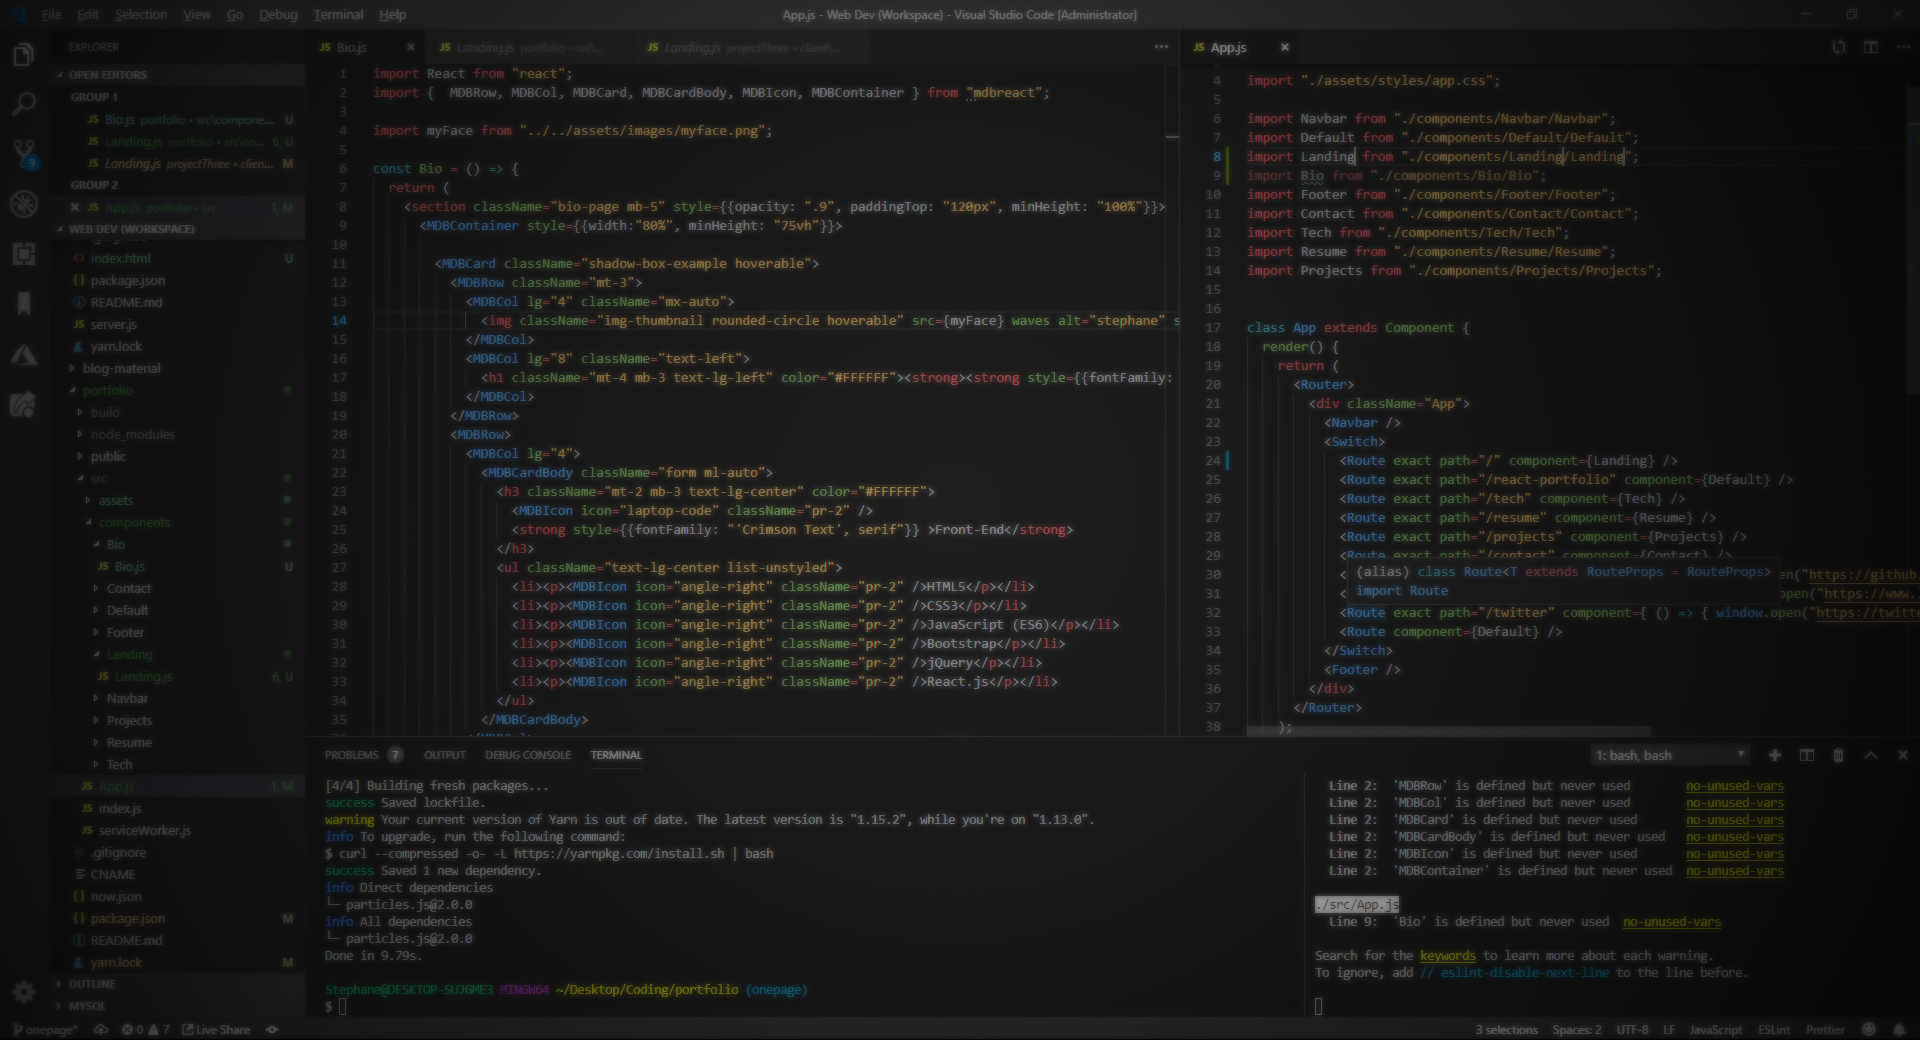
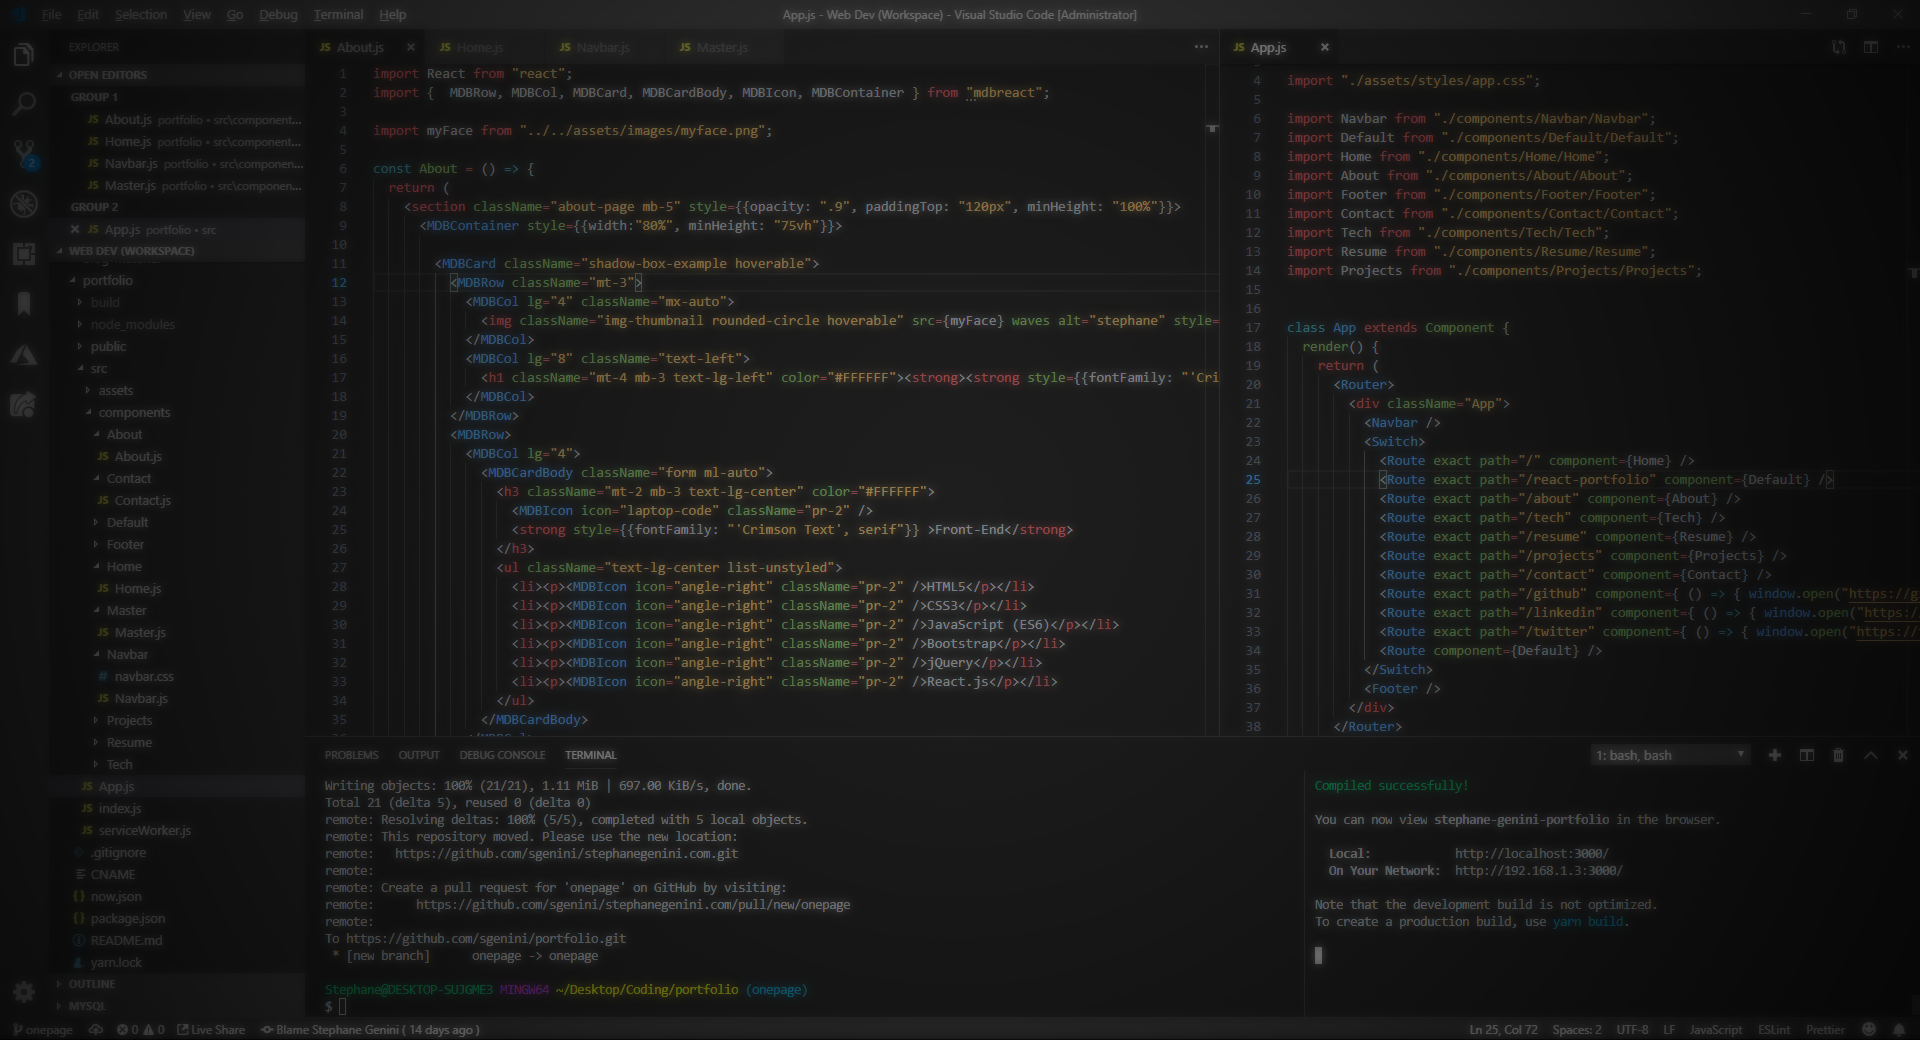
commit

diff --git a/src/App.js b/src/App.js
@@ -12,6 +12,7 @@ import Contact from "./components/Contact/Contact";
 import Tech from "./components/Tech/Tech";
 import Resume from "./components/Resume/Resume";
 import Projects from "./components/Projects/Projects";
+import Master from "./components/Master/Master";
 
 
 class App extends Component {
@@ -21,7 +22,7 @@ class App extends Component {
         <div className="App">
           <Navbar />
           <Switch>
-            <Route exact path="/" component={Home} />
+            <Route exact path="/" component={Master} />
             <Route exact path="/react-portfolio" component={Default} />
             <Route exact path="/about" component={About} />
             <Route exact path="/tech" component={Tech} />

diff --git a/src/components/Master/Master.js b/src/components/Master/Master.js
@@ -1,13 +1,11 @@
 import React, { Component } from 'react';
 
-import "./assets/styles/app.css";
-
-import Home from "./components/Home/Home";
-import About from "./components/About/About";
-import Contact from "./components/Contact/Contact";
-import Tech from "./components/Tech/Tech";
-import Resume from "./components/Resume/Resume";
-import Projects from "./components/Projects/Projects";
+import Home from "../Home/Home";
+import About from "../About/About";
+import Contact from "../Contact/Contact";
+import Tech from "../Tech/Tech";
+import Resume from "../Resume/Resume";
+import Projects from "../Projects/Projects";
 
 
 class Master extends Component {
